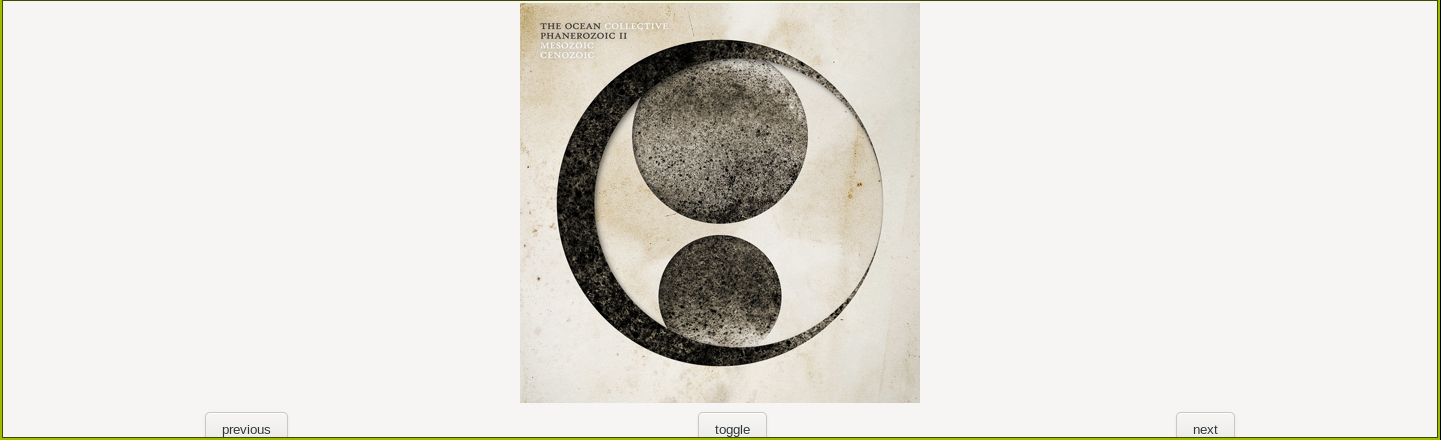
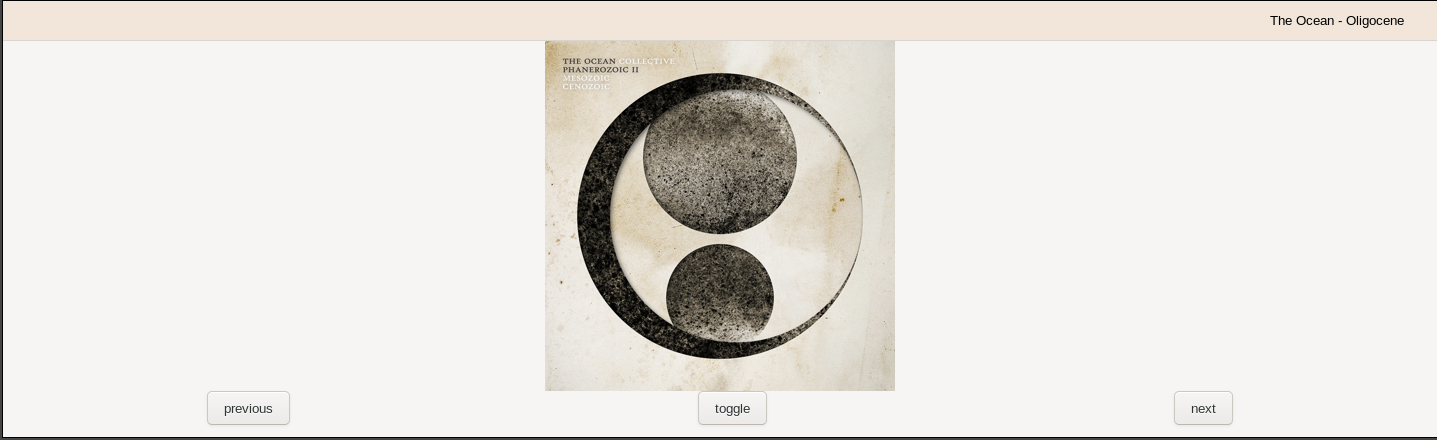
show song info, minor adjustments

Changed region(s): [[0.0, 0.0, 1.0, 1.0]]

diff --git a/src/main.rs b/src/main.rs
@@ -2,8 +2,8 @@ extern crate gio;
 extern crate gtk;
 
 use gio::prelude::*;
-use gtk::{Box, Button, Orientation::{Horizontal, Vertical}, prelude::*};
-use mpd::Client;
+use gtk::{Box, Button, InfoBar, Orientation::{Horizontal, Vertical}, prelude::*};
+use mpd::{Client, Song};
 use std::env;
 
 fn control(function: &str) {
@@ -17,6 +17,14 @@ fn control(function: &str) {
     }
 }
 
+fn info() -> String {
+    let mut c = Client::connect("127.0.0.1:6600").unwrap();
+    let song: Song = c.currentsong().unwrap().unwrap();
+    let tit = song.title.as_ref().unwrap();
+    let art = song.tags.get("Artist").unwrap();
+    format!("{} - {}", art, tit)
+}
+
 fn main() {
     let uiapp = gtk::Application::new(
         Some("whydoes.thisidentify.likeanapp"),
@@ -28,9 +36,9 @@ fn main() {
         let win = gtk::ApplicationWindow::new(app);
         win.set_title("rsmpc-gui");
 
-        // Boxes for grouping content
-        let vbox = Box::new(Vertical, 5);
-        let hbox = Box::new(Horizontal, 5);
+        // Boxes for organizing widgets
+        let vbox = Box::new(Vertical, 0);
+        let hbox = Box::new(Horizontal, 0);
 
         // Buttons
         let toggle = Button::with_label("toggle");
@@ -49,14 +57,26 @@ fn main() {
         // Cover art
         let image = gtk::Image::from_file("/tmp/cover.png");
 
+        // Music info
+        let bar = InfoBar::new();
+        let info = info();
+        let entry = gtk::Entry::new();
+        entry.set_text(&info);
+        entry.set_overwrite_mode(false);
+        entry.set_has_frame(false);
+        entry.set_activates_default(false);
+        entry.grab_focus();
+        bar.add_action_widget(&entry, gtk::ResponseType::None);
+
         // Actually use the boxes
         hbox.pack_start(&prev, true, false, 2);
         hbox.pack_start(&toggle, true, false, 2);
         hbox.pack_start(&next, true, false, 2);
-        vbox.pack_start(&image, false, false, 2);
-        vbox.pack_start(&hbox, false, false, 2);
+        vbox.pack_start(&bar, false, false, 0);
+        vbox.pack_start(&image, false, false, 0);
+        vbox.pack_start(&hbox, false, false, 0);
 
-        // Don't forget to make all widgets visible.
+        // Display in window
         win.add(&vbox);
         win.show_all();
     });
